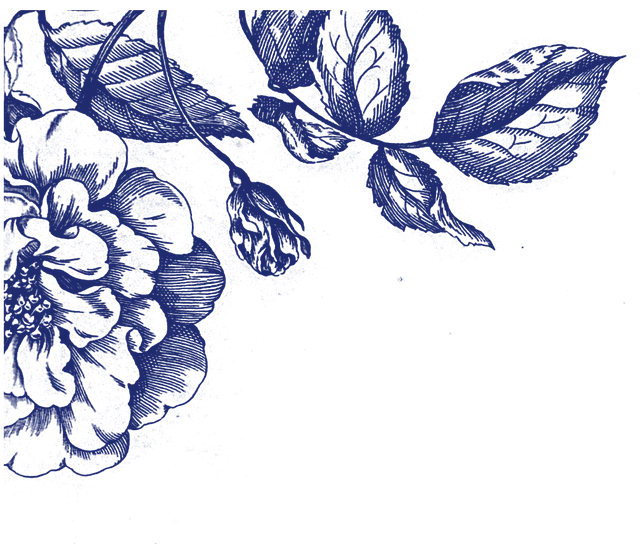
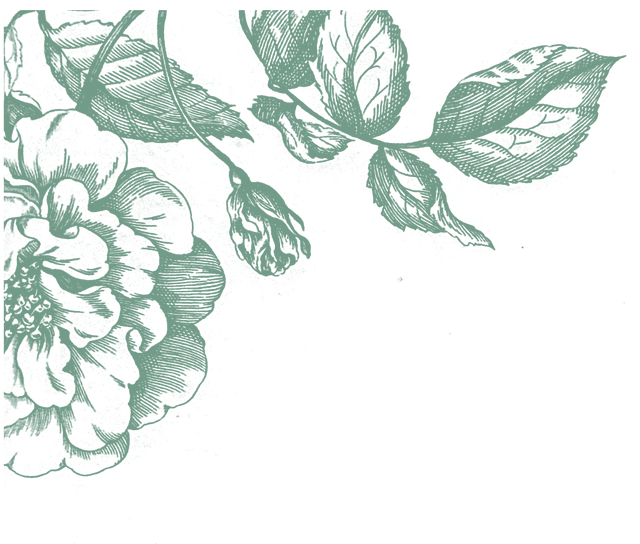
Anaïs : identité officielle (vert sauge, Belleza + DM Sans, fleurs sauge, coordonnées)
Claude-Session: https://claude.ai/code/session_016qL2Juu7hE1zMxMd2EMm6M

Changed region(s): [[0.0, 0.0, 0.9688, 0.875], [0.0, 0.8438, 0.0312, 0.875]]

diff --git a/anais/index.html b/anais/index.html
@@ -7,20 +7,20 @@
 <meta name="description" content="Anaïs Beauty Clinic : programme Maigrir en santé (bilan InBody, nutrition, coaching privé, technologies d'amincissement) et soins médico-esthétiques avec le médecin.">
 <link rel="preconnect" href="https://fonts.googleapis.com">
 <link rel="preconnect" href="https://fonts.gstatic.com" crossorigin>
-<link href="https://fonts.googleapis.com/css2?family=Poppins:ital,wght@0,300;0,400;0,500;0,600;0,700;1,300;1,400&display=swap" rel="stylesheet">
+<link href="https://fonts.googleapis.com/css2?family=Belleza&family=DM+Sans:ital,opsz,wght@0,9..40,300;0,9..40,400;0,9..40,500;0,9..40,600;0,9..40,700;1,9..40,300;1,9..40,400&display=swap" rel="stylesheet">
 <style>
   :root{
-    --bg:#F7F5F0;
+    --bg:#F0EDE7;
     --white:#FFFFFF;
     --ink:#1B1D21;
     --muted:#6E737D;
     --line:rgba(27,29,33,.1);
     --tile:#ECE9E2;
-    --sage:#3B4FA0;
-    --sage-deep:#1F2B6E;
-    --sage-mist:#E4E8F5;
-    --serif:'Poppins', system-ui, sans-serif;
-    --sans:'Poppins', system-ui, sans-serif;
+    --sage:#729B89;
+    --sage-deep:#4F7565;
+    --sage-mist:#E3ECE7;
+    --serif:'Belleza', 'DM Sans', sans-serif;
+    --sans:'DM Sans', system-ui, sans-serif;
   }
   *{box-sizing:border-box;margin:0;padding:0}
   html{scroll-behavior:smooth;overflow-x:clip}
@@ -72,7 +72,7 @@
   .hacts,.hacts2{display:flex;gap:10px;align-items:center;flex-shrink:0}
   .hb{display:inline-flex;align-items:center;gap:10px;border-radius:999px;padding:0 24px;height:50px;font-size:14.5px;font-weight:500;cursor:pointer;border:1px solid transparent;font-family:var(--sans);transition:filter .3s, background .3s;white-space:nowrap;background:none;color:var(--ink)}
   .hb svg{width:20px;height:20px;fill:none;stroke:currentColor;stroke-width:1.6}
-  .hb-dark{background:linear-gradient(90deg,#141C4E,var(--sage-deep));color:#fff}
+  .hb-dark{background:linear-gradient(90deg,#3A5A4C,var(--sage-deep));color:#fff}
   .hb-light{background:var(--sage);color:#fff}
   .hb-out{border-color:#dcdde0;color:var(--ink)}
   .hb:hover{filter:brightness(1.08)}
@@ -116,7 +116,7 @@
   }
 
   /* menu overlay */
-  .menu{position:fixed;inset:0;z-index:70;background:rgba(247,245,240,.98);backdrop-filter:blur(10px);display:none;flex-direction:column;justify-content:center;align-items:center;gap:6px}
+  .menu{position:fixed;inset:0;z-index:70;background:rgba(240,237,231,.98);backdrop-filter:blur(10px);display:none;flex-direction:column;justify-content:center;align-items:center;gap:6px}
   .menu.open{display:flex;animation:fade .35s}
   .menu a{font-size:clamp(28px,4vw,46px);text-transform:uppercase;letter-spacing:.05em;font-weight:300;transition:color .3s}
   .menu a:hover{color:var(--sage-deep)}
@@ -262,7 +262,7 @@
   @media (max-width:960px){ .xs h2 .typed{text-align:center} .xstage{height:auto;padding:10px 0} .chart .top{flex-direction:column;gap:6px} }
 
   /* étape 02 — assiette */
-  .x2{--xbg:#F3EFE7;--xink:#1B1D21;--xacc:#1F2B6E;--xmut:#5d6168;--xline:rgba(27,29,33,.1);--xcard:#fff}
+  .x2{--xbg:#F3EFE7;--xink:#1B1D21;--xacc:#4F7565;--xmut:#5d6168;--xline:rgba(27,29,33,.1);--xcard:#fff}
   .plate{position:relative;width:min(400px,86%);aspect-ratio:1}
   .plate svg{width:100%;height:100%;overflow:visible}
   .plate .seg{fill:none;stroke-width:92;transition:stroke-dasharray 1.1s cubic-bezier(.6,.1,.2,1)}
@@ -280,15 +280,15 @@
   .week span.on b{color:#fff}
 
   /* étape 03 — coaching */
-  .x3{--xbg:#121733;--xink:#fff;--xacc:#E8836B;--xmut:rgba(255,255,255,.7);--xline:rgba(232,131,107,.25);--xcard:rgba(255,255,255,.04);--xbtnink:#121733}
+  .x3{--xbg:#26302C;--xink:#fff;--xacc:#E8836B;--xmut:rgba(255,255,255,.7);--xline:rgba(232,131,107,.25);--xcard:rgba(255,255,255,.04);--xbtnink:#26302C}
   .x3::before{content:"";position:absolute;inset:0;background:radial-gradient(50% 60% at 50% 50%,rgba(232,131,107,.14),transparent 70%)}
   .cframe{position:relative;width:100%;aspect-ratio:3/2;border-radius:24px;overflow:hidden;box-shadow:0 30px 60px -30px rgba(0,0,0,.6)}
   .cframe img{width:100%;height:100%;object-fit:cover}
-  .cframe::after{content:"";position:absolute;inset:0;background:linear-gradient(180deg,rgba(18,23,51,.1) 40%,rgba(18,23,51,.85) 100%)}
+  .cframe::after{content:"";position:absolute;inset:0;background:linear-gradient(180deg,rgba(38,48,44,.1) 40%,rgba(38,48,44,.85) 100%)}
   .ecg{position:absolute;left:0;right:0;bottom:14px;height:70px;z-index:2}
   .ecg path{fill:none;stroke:var(--xacc);stroke-width:2.5;stroke-linejoin:round;filter:drop-shadow(0 0 6px rgba(232,131,107,.8));stroke-dasharray:1400;stroke-dashoffset:1400;animation:ecg 2.8s linear infinite}
   @keyframes ecg{to{stroke-dashoffset:0}}
-  .chipd{position:absolute;z-index:3;display:flex;align-items:center;gap:8px;background:rgba(18,23,51,.65);backdrop-filter:blur(8px);border:1px solid var(--xline);border-radius:999px;padding:7px 14px;font-size:12.5px;color:#fff}
+  .chipd{position:absolute;z-index:3;display:flex;align-items:center;gap:8px;background:rgba(38,48,44,.65);backdrop-filter:blur(8px);border:1px solid var(--xline);border-radius:999px;padding:7px 14px;font-size:12.5px;color:#fff}
   .heart{color:var(--xacc);display:inline-block;animation:beat 1s ease-in-out infinite}
   @keyframes beat{0%,100%{transform:scale(1)}15%{transform:scale(1.35)}30%{transform:scale(1)}45%{transform:scale(1.2)}}
   .bars{width:100%;display:grid;grid-template-columns:repeat(4,1fr);gap:12px}
@@ -297,16 +297,16 @@
   .bars .t i{display:block;height:100%;width:8%;background:linear-gradient(90deg,#C9614A,var(--xacc));border-radius:6px;transition:width 1.4s cubic-bezier(.6,.1,.2,1)}
 
   /* étape 04 — technologies */
-  .x4{--xbg:#EEF1FA;--xink:#1B1D21;--xacc:#2E3F8A;--xmut:#5d6168;--xline:rgba(46,63,138,.18);--xcard:#fff}
-  .tframe{position:relative;width:100%;aspect-ratio:16/9;border-radius:24px;overflow:hidden;box-shadow:0 30px 60px -30px rgba(30,42,110,.45)}
+  .x4{--xbg:#E9EFEB;--xink:#1B1D21;--xacc:#5E8574;--xmut:#5d6168;--xline:rgba(94,133,116,.2);--xcard:#fff}
+  .tframe{position:relative;width:100%;aspect-ratio:16/9;border-radius:24px;overflow:hidden;box-shadow:0 30px 60px -30px rgba(40,70,58,.45)}
   .tframe img{width:100%;height:100%;object-fit:cover}
-  .tframe::after{content:"";position:absolute;inset:0;background:rgba(20,30,90,.1)}
-  .ring{position:absolute;z-index:2;width:16px;height:16px;margin:-8px 0 0 -8px;border-radius:50%;background:#fff;box-shadow:0 0 0 4px rgba(46,63,138,.9)}
-  .ring::before,.ring::after{content:"";position:absolute;inset:-4px;border-radius:50%;border:2px solid rgba(110,135,230,.9);animation:ping 2.2s ease-out infinite}
+  .tframe::after{content:"";position:absolute;inset:0;background:rgba(30,60,45,.08)}
+  .ring{position:absolute;z-index:2;width:16px;height:16px;margin:-8px 0 0 -8px;border-radius:50%;background:#fff;box-shadow:0 0 0 4px rgba(94,133,116,.9)}
+  .ring::before,.ring::after{content:"";position:absolute;inset:-4px;border-radius:50%;border:2px solid rgba(160,200,180,.9);animation:ping 2.2s ease-out infinite}
   .ring::after{animation-delay:1.1s}
   @keyframes ping{from{transform:scale(1);opacity:1}to{transform:scale(4.2);opacity:0}}
   .ring b{position:absolute;left:24px;top:50%;transform:translateY(-50%);white-space:nowrap;background:rgba(255,255,255,.92);color:var(--xink);font-size:12px;font-weight:500;padding:5px 11px;border-radius:999px;box-shadow:0 8px 18px -10px rgba(0,0,0,.4)}
-  .panel4{display:flex;gap:18px;align-items:center;background:#fff;border:1px solid var(--xline);border-radius:20px;padding:14px 20px;box-shadow:0 16px 36px -24px rgba(30,42,110,.4);width:100%}
+  .panel4{display:flex;gap:18px;align-items:center;background:#fff;border:1px solid var(--xline);border-radius:20px;padding:14px 20px;box-shadow:0 16px 36px -24px rgba(40,70,58,.4);width:100%}
   .pring{width:64px;height:64px;flex-shrink:0;position:relative}
   .pring svg{width:100%;height:100%;transform:rotate(-90deg)}
   .pring circle{fill:none;stroke-width:6}
@@ -318,8 +318,8 @@
   .zchips em.on{background:var(--xacc);border-color:var(--xacc);color:#fff}
 
   /* étape 05 — suivi */
-  .x5{--xbg:#0D1230;--xink:#fff;--xacc:#9DB4F2;--xmut:rgba(255,255,255,.7);--xline:rgba(157,180,242,.22);--xcard:rgba(255,255,255,.04);--xbtnink:#0D1230}
-  .x5::before{content:"";position:absolute;inset:0;background:radial-gradient(50% 60% at 50% 50%,rgba(157,180,242,.12),transparent 70%)}
+  .x5{--xbg:#1E2B26;--xink:#fff;--xacc:#A9CDBB;--xmut:rgba(255,255,255,.7);--xline:rgba(169,205,187,.22);--xcard:rgba(255,255,255,.04);--xbtnink:#1E2B26}
+  .x5::before{content:"";position:absolute;inset:0;background:radial-gradient(50% 60% at 50% 50%,rgba(169,205,187,.12),transparent 70%)}
   .chart{position:relative;width:100%;background:rgba(255,255,255,.03);border:1px solid var(--xline);border-radius:24px;padding:22px 22px 14px}
   .chart .top{display:flex;justify-content:space-between;align-items:center;font-size:12.5px;color:var(--xmut);margin-bottom:10px}
   .chart .lg{display:flex;gap:14px}
@@ -327,11 +327,22 @@
   .chart svg{width:100%;height:auto;overflow:visible}
   .chart .ln{fill:none;stroke-width:3;stroke-linecap:round;stroke-linejoin:round}
   .chart .pt{transition:r .4s, opacity .4s}
-  .chart .xl{font-size:11px;fill:rgba(255,255,255,.55);font-family:Poppins}
-  .final{display:flex;align-items:center;gap:10px;background:var(--xacc);color:#0D1230;font-weight:500;font-size:13.5px;border-radius:999px;padding:9px 18px;opacity:0;transform:translateY(10px);transition:.6s}
+  .chart .xl{font-size:11px;fill:rgba(255,255,255,.55);font-family:DM Sans}
+  .final{display:flex;align-items:center;gap:10px;background:var(--xacc);color:#1E2B26;font-weight:500;font-size:13.5px;border-radius:999px;padding:9px 18px;opacity:0;transform:translateY(10px);transition:.6s}
   .final.on{opacity:1;transform:none}
   .note5{font-size:11px;color:var(--xmut);opacity:.7}
 
+
+
+  /* ---------- IDENTITÉ OFFICIELLE (anaisbeautyclinic.com) ---------- */
+  h1,h2,h3,.tt i,.tt b,.cf-info h3,.card-b h3,.min h3,.menu a,.xs h2 b,.xs h2 i,.scan h2 b,.scan h2 i{font-family:'Belleza','DM Sans',sans-serif}
+  .tt i,.xs h2 i,.scan h2 i{font-style:normal;color:var(--sage)}
+  .tt b{font-weight:400;letter-spacing:.02em}
+  .xs h2 b,.scan h2 b{font-weight:400}
+  .hero .tt i{color:#fff}
+  .xs.x3 h2 i,.xs.x5 h2 i{color:var(--xacc)}
+  .scan h2 i{color:#BFD6FF}
+  .cf-info .cf-n,.card-b .n,.min .n{font-family:'Belleza',sans-serif;font-style:normal}
 
   /* ---------- IDENTITÉ ANAÏS (brochure) ---------- */
   .deco{position:relative;overflow:hidden}
@@ -345,7 +356,7 @@
   .contact .flr{opacity:.5}
   .menu .flr{opacity:.6}
   .menu-logo{height:70px;margin-bottom:26px}
-  .portrait.cover{aspect-ratio:1;position:relative;background:#FAF8F3;overflow:hidden;box-shadow:0 30px 60px -36px rgba(20,30,90,.35);gap:0}
+  .portrait.cover{aspect-ratio:1;position:relative;background:#FAF8F3;overflow:hidden;box-shadow:0 30px 60px -36px rgba(40,70,58,.3);gap:0}
   .cover .fl{position:absolute;pointer-events:none}
   .cover .fl.tl{top:0;left:0;width:62%}
   .cover .fl.tr{top:0;right:0;width:40%}
@@ -367,7 +378,7 @@
   @keyframes svIn{from{opacity:0;transform:translateY(16px)}}
   .stepview > section{display:none}
   .stepview > section.cur{display:block}
-  .sv-bar{position:sticky;top:0;z-index:5;height:58px;display:flex;align-items:center;justify-content:space-between;gap:14px;padding:0 24px;background:rgba(247,245,240,.96);backdrop-filter:blur(10px);border-bottom:1px solid var(--line)}
+  .sv-bar{position:sticky;top:0;z-index:5;height:58px;display:flex;align-items:center;justify-content:space-between;gap:14px;padding:0 24px;background:rgba(240,237,231,.96);backdrop-filter:blur(10px);border-bottom:1px solid var(--line)}
   .sv-back{border:0;background:none;font-family:var(--sans);font-size:14px;font-weight:500;color:var(--sage-deep);cursor:pointer;padding:8px 0}
   .sv-dots{display:flex;gap:6px}
   .sv-dots button{border:1px solid var(--line);background:#fff;border-radius:999px;padding:7px 14px;font-family:var(--sans);font-size:13px;cursor:pointer;color:var(--ink);transition:.3s}
@@ -629,7 +640,7 @@
   .sgrid{display:grid;grid-template-columns:repeat(3,1fr);gap:28px 20px;margin-top:60px}
   .soin{cursor:pointer;text-align:left;background:none;border:0;color:var(--ink)}
   .soin .tile{aspect-ratio:4/4.4;background:var(--tile);display:grid;place-items:center;overflow:hidden;position:relative;transition:background .5s}
-  .soin .disc{width:46%;aspect-ratio:1;border-radius:50%;background:var(--sage);display:flex;flex-direction:column;align-items:center;justify-content:center;color:#fff;line-height:1;outline:6px solid rgba(59,79,160,.25);outline-offset:6px;transition:transform .6s}
+  .soin .disc{width:46%;aspect-ratio:1;border-radius:50%;background:var(--sage);display:flex;flex-direction:column;align-items:center;justify-content:center;color:#fff;line-height:1;outline:6px solid rgba(114,155,137,.25);outline-offset:6px;transition:transform .6s}
   .soin .disc b{font-family:var(--serif);font-weight:400;font-size:clamp(26px,2.6vw,40px)}
   .soin .disc small{font-family:var(--serif);font-size:12px;margin-top:4px;opacity:.9}
   .soin .hov{position:absolute;inset:auto 0 0 0;padding:22px 24px;background:linear-gradient(0deg,rgba(27,29,33,.78),rgba(27,29,33,0));color:#fff;font-size:14px;transform:translateY(100%);transition:transform .5s}
@@ -659,7 +670,7 @@
 
   /* ---------- FOOTER ---------- */
   footer{padding:60px 0 40px}
-  .fbox{max-width:760px;margin:0 auto;background:var(--white);padding:50px 56px;display:grid;grid-template-columns:repeat(3,1fr);gap:30px}
+  .fbox{max-width:980px;margin:0 auto;background:var(--white);padding:50px 56px;display:grid;grid-template-columns:repeat(4,1fr);gap:30px}
   .fbox h4{font-size:11px;letter-spacing:.2em;text-transform:uppercase;color:var(--muted);font-weight:500;margin-bottom:16px}
   .fbox ul{list-style:none;display:grid;gap:6px;font-size:15px;font-weight:400}
   .fbox a:hover{color:var(--sage-deep)}
@@ -719,10 +730,10 @@
     </a>
     <div class="hbadge" aria-hidden="true">
       <svg viewBox="0 0 100 100"><defs><path id="bc" d="M50,50 m-38,0 a38,38 0 1,1 76,0 a38,38 0 1,1 -76,0"/></defs>
-        <text font-family="Poppins" font-size="9.5" font-weight="600" letter-spacing="2.4" fill="#1F2B6E"><textPath href="#bc" startOffset="2%">MAIGRIR EN SANTÉ ·</textPath></text>
-        <circle cx="50" cy="50" r="27" fill="#3B4FA0"/>
-        <text x="50" y="49" text-anchor="middle" font-family="Poppins" font-weight="600" font-size="15" fill="#fff">5</text>
-        <text x="50" y="62" text-anchor="middle" font-family="Poppins" font-weight="500" font-size="8.5" fill="#fff">étapes</text>
+        <text font-family="DM Sans" font-size="9.5" font-weight="600" letter-spacing="2.4" fill="#4F7565"><textPath href="#bc" startOffset="2%">MAIGRIR EN SANTÉ ·</textPath></text>
+        <circle cx="50" cy="50" r="27" fill="#729B89"/>
+        <text x="50" y="49" text-anchor="middle" font-family="DM Sans" font-weight="600" font-size="15" fill="#fff">5</text>
+        <text x="50" y="62" text-anchor="middle" font-family="DM Sans" font-weight="500" font-size="8.5" fill="#fff">étapes</text>
       </svg>
     </div>
     <div class="hsearch">
@@ -753,7 +764,7 @@
     </nav>
     <div class="hacts2">
       <a href="#contact" class="hb hb-out hcall"><svg viewBox="0 0 24 24"><path d="M5 4h4l2 5-2.5 1.5a11 11 0 0 0 5 5L15 13l5 2v4a2 2 0 0 1-2 2A16 16 0 0 1 3 6a2 2 0 0 1 2-2"/></svg><span><b>Rendez-vous</b><small>par WhatsApp</small></span></a>
-      <a href="https://www.instagram.com/anaisclinic/" target="_blank" rel="noopener" class="hb hb-dark">@anaisclinic</a>
+      <a href="https://www.instagram.com/anaisbeautyclinic/" target="_blank" rel="noopener" class="hb hb-dark">@anaisclinic</a>
       <span class="hb hb-out hlang">🇫🇷 FR</span>
     </div>
   </div>
@@ -763,7 +774,7 @@
 
 <div class="sidebtns" id="sidebtns">
   <a href="#contact"><svg viewBox="0 0 24 24"><rect x="4" y="5" width="16" height="15" rx="2"/><path d="M8 3v4M16 3v4M4 10h16M12 13v4M10 15h4"/></svg>Rendez-vous rapide</a>
-  <a href="https://www.instagram.com/anaisclinic/" target="_blank" rel="noopener"><svg viewBox="0 0 24 24"><circle cx="12" cy="12" r="8"/><path d="M12 8v4l3 2"/></svg>Nous écrire</a>
+  <a href="https://www.instagram.com/anaisbeautyclinic/" target="_blank" rel="noopener"><svg viewBox="0 0 24 24"><circle cx="12" cy="12" r="8"/><path d="M12 8v4l3 2"/></svg>Nous écrire</a>
 </div>
 
 <nav class="menu" id="menu" aria-label="Menu principal">
@@ -882,8 +893,8 @@
             <circle class="seg" data-f=".25" data-o=".75" cx="250" cy="250" r="120" stroke="#E3C98F" stroke-dasharray="0 754"/>
           </g>
           <circle cx="250" cy="250" r="72" fill="#fff"/>
-          <text x="250" y="245" text-anchor="middle" font-family="Poppins" font-size="17" font-weight="600" fill="#1B1D21">Votre assiette</text>
-          <text x="250" y="270" text-anchor="middle" font-family="Poppins" font-size="14" font-style="italic" fill="#1F2B6E">sur mesure</text>
+          <text x="250" y="245" text-anchor="middle" font-family="DM Sans" font-size="17" font-weight="600" fill="#1B1D21">Votre assiette</text>
+          <text x="250" y="270" text-anchor="middle" font-family="DM Sans" font-size="14" font-style="italic" fill="#4F7565">sur mesure</text>
         </svg>
         <div class="chip" style="left:-4%;top:58%"><i style="background:#8FAF8A"></i>Légumes</div>
         <div class="chip" style="right:-2%;top:70%"><i style="background:#D98E73"></i>Protéines</div>
@@ -957,7 +968,7 @@
         <div class="ring" style="left:28%;top:27%"><b>Protocole</b></div>
       </div>
       <div class="panel4" id="panel4">
-        <div class="pring"><svg viewBox="0 0 64 64"><circle cx="32" cy="32" r="27" stroke="#E2E7F5"/><circle id="pr" cx="32" cy="32" r="27" stroke="#2E3F8A" stroke-linecap="round" stroke-dasharray="0 170"/></svg><span id="prt">0%</span></div>
+        <div class="pring"><svg viewBox="0 0 64 64"><circle cx="32" cy="32" r="27" stroke="#E3ECE7"/><circle id="pr" cx="32" cy="32" r="27" stroke="#5E8574" stroke-linecap="round" stroke-dasharray="0 170"/></svg><span id="prt">0%</span></div>
         <div class="info"><b id="p4t">Séance en cours</b>Protocole adapté à vos besoins
           <div class="zchips"><em>Ventre</em><em>Cuisses</em><em>Bras</em><em>Fessiers</em></div>
         </div>
@@ -986,10 +997,10 @@
     </div>
     <div class="xstage">
       <div class="chart" id="chart">
-        <div class="top"><span>Vos contrôles InBody</span><span class="lg"><span><i style="background:#9DB4F2"></i>Masse musculaire</span><span><i style="background:#E8836B"></i>Masse grasse</span></span></div>
+        <div class="top"><span>Vos contrôles InBody</span><span class="lg"><span><i style="background:#A9CDBB"></i>Masse musculaire</span><span><i style="background:#E8836B"></i>Masse grasse</span></span></div>
         <svg viewBox="0 0 560 230">
           <g stroke="rgba(255,255,255,.07)"><line x1="20" y1="30" x2="540" y2="30"/><line x1="20" y1="90" x2="540" y2="90"/><line x1="20" y1="150" x2="540" y2="150"/><line x1="20" y1="200" x2="540" y2="200"/></g>
-          <path id="lUp" class="ln" stroke="#9DB4F2" d="M40 150 C 120 145, 160 128, 165 125 S 260 100, 290 98 S 390 70, 415 68 S 500 52, 520 48"/>
+          <path id="lUp" class="ln" stroke="#A9CDBB" d="M40 150 C 120 145, 160 128, 165 125 S 260 100, 290 98 S 390 70, 415 68 S 500 52, 520 48"/>
           <path id="lDn" class="ln" stroke="#E8836B" d="M40 60 C 120 66, 160 82, 165 85 S 260 110, 290 112 S 390 136, 415 138 S 500 150, 520 154"/>
           <g id="pts"></g>
           <text class="xl" x="40" y="225" text-anchor="middle">Bilan</text>
@@ -1066,20 +1077,20 @@
         <svg viewBox="0 0 1000 620" preserveAspectRatio="xMidYMid meet" aria-label="Route du parcours Anaïs">
           <defs>
             <filter id="sh" x="-20%" y="-20%" width="140%" height="160%"><feDropShadow dx="0" dy="10" stdDeviation="9" flood-color="#000" flood-opacity=".18"/></filter>
-            <radialGradient id="glow"><stop offset="0" stop-color="#3B4FA0" stop-opacity=".55"/><stop offset="1" stop-color="#3B4FA0" stop-opacity="0"/></radialGradient>
+            <radialGradient id="glow"><stop offset="0" stop-color="#729B89" stop-opacity=".55"/><stop offset="1" stop-color="#729B89" stop-opacity="0"/></radialGradient>
           </defs>
           <!-- nuages -->
           <g class="cloud" opacity=".7"><ellipse cx="60" cy="90" rx="46" ry="15" fill="#fff"/><ellipse cx="90" cy="80" rx="30" ry="14" fill="#fff"/></g>
           <g class="cloud" style="animation-duration:38s;animation-delay:-14s" opacity=".55"><ellipse cx="40" cy="150" rx="36" ry="11" fill="#fff"/></g>
           <!-- collines -->
-          <path d="M0 470 C 180 400, 320 440, 470 410 S 780 360, 1000 400 L1000 620 L0 620Z" fill="#E2E7F5" opacity=".55"/>
+          <path d="M0 470 C 180 400, 320 440, 470 410 S 780 360, 1000 400 L1000 620 L0 620Z" fill="#E3ECE7" opacity=".55"/>
           <!-- arbres -->
           <g id="trees"></g>
           <!-- route -->
           <path id="roadShadow" d="" fill="none" stroke="#000" stroke-opacity=".12" stroke-width="70" stroke-linecap="round" transform="translate(0,10)"/>
           <path id="roadEdge" d="" fill="none" stroke="#fff" stroke-width="66" stroke-linecap="round"/>
           <path id="road" d="" fill="none" stroke="#2B2E33" stroke-width="56" stroke-linecap="round"/>
-          <path id="roadProg" d="" fill="none" stroke="#3B4FA0" stroke-width="56" stroke-linecap="round" opacity=".35"/>
+          <path id="roadProg" d="" fill="none" stroke="#729B89" stroke-width="56" stroke-linecap="round" opacity=".35"/>
           <path id="roadLine" d="" fill="none" stroke="#fff" stroke-width="3.5" stroke-dasharray="18 16" stroke-linecap="round"/>
           <!-- arrivée -->
           <g id="finish"></g>
@@ -1089,8 +1100,8 @@
           <g id="traveler" filter="url(#sh)">
             <circle r="34" fill="url(#glow)"/>
             <circle r="17" fill="#fff"/>
-            <circle r="12" fill="#1F2B6E"/>
-            <text y="4.5" text-anchor="middle" font-family="Poppins, sans-serif" font-style="italic" font-size="13" fill="#fff">A</text>
+            <circle r="12" fill="#4F7565"/>
+            <text y="4.5" text-anchor="middle" font-family="Belleza, sans-serif" font-style="italic" font-size="13" fill="#fff">A</text>
           </g>
         </svg>
         <div class="hud">
@@ -1178,8 +1189,13 @@
         <li><a href="#soins">Laser</a></li><li><a href="#soins">Filler</a></li><li><a href="#soins">Skin booster</a></li>
         <li><a href="#soins">PRP cheveux</a></li><li><a href="#soins">Hydrafacial</a></li><li><a href="#soins">Microneedling</a></li>
       </ul></div>
+      <div><h4>Nous trouver</h4><ul>
+        <li>RP N°40 Hay El Mohammadi, Agadir</li>
+        <li><a href="tel:+212525236754">+212 5 25 23 67 54</a></li>
+        <li>Lun – Dim · 10h – 21h</li>
+      </ul></div>
       <div><h4>Nous suivre</h4><ul>
-        <li><a href="https://www.instagram.com/anaisclinic/" target="_blank" rel="noopener">Instagram</a></li>
+        <li><a href="https://www.instagram.com/anaisbeautyclinic/" target="_blank" rel="noopener">Instagram</a></li>
         <li><a href="https://www.instagram.com/complexemoovup/" target="_blank" rel="noopener">Complexe Moov'Up</a></li>
         <li><a href="#contact">Contact</a></li>
       </ul></div>
@@ -1617,13 +1633,13 @@
     [[120,420,1],[430,500,.8],[520,230,.9],[900,330,1.1],[170,220,.7],[620,540,.9],[960,520,.8],[400,180,.6],[960,200,.7]].forEach(([x,y,k])=>{
       const g=document.createElementNS(NS,'g'); g.setAttribute('class','tree');
       g.style.animationDelay=(-x/90)+'s';
-      g.innerHTML=`<rect x="${x-2.5*k}" y="${y-6*k}" width="${5*k}" height="${16*k}" fill="#8b7d6b"/><circle cx="${x}" cy="${y-22*k}" r="${20*k}" fill="#3B4FA0"/><circle cx="${x-10*k}" cy="${y-14*k}" r="${13*k}" fill="#2E3F8A"/>`;
+      g.innerHTML=`<rect x="${x-2.5*k}" y="${y-6*k}" width="${5*k}" height="${16*k}" fill="#8b7d6b"/><circle cx="${x}" cy="${y-22*k}" r="${20*k}" fill="#729B89"/><circle cx="${x-10*k}" cy="${y-14*k}" r="${13*k}" fill="#5E8574"/>`;
       trees.appendChild(g);
     });
 
     // drapeau d'arrivée
     const e=pt(END);
-    document.getElementById('finish').innerHTML=`<g transform="translate(${e.x+6},${e.y-70})"><rect x="0" y="0" width="3" height="74" fill="#1B1D21"/><path d="M3 2 h62 l-12 14 l12 14 h-62z" fill="#1F2B6E"/><text x="31" y="21" text-anchor="middle" font-family="Poppins" font-size="11" font-weight="600" letter-spacing="1.5" fill="#fff">ANAÏS</text></g>`;
+    document.getElementById('finish').innerHTML=`<g transform="translate(${e.x+6},${e.y-70})"><rect x="0" y="0" width="3" height="74" fill="#1B1D21"/><path d="M3 2 h62 l-12 14 l12 14 h-62z" fill="#4F7565"/><text x="31" y="21" text-anchor="middle" font-family="DM Sans" font-size="11" font-weight="600" letter-spacing="1.5" fill="#fff">ANAÏS</text></g>`;
 
     // arrêts
     const pins=document.getElementById('pins');
@@ -1635,7 +1651,7 @@
       g.innerHTML=`<g transform="translate(${p.x},${p.y-30})">
         <path class="drop" d="M0 18 C -16 0,-22 -8,-22 -22 a22 22 0 1 1 44 0 C 22 -8,16 0,0 18z" fill="#2B2E33" filter="url(#sh)"/>
         <circle cy="-22" r="12" fill="#fff"/>
-        <text y="-17.5" text-anchor="middle" font-family="Poppins, sans-serif" font-style="italic" font-size="14" fill="#1B1D21">${i+1}</text>
+        <text y="-17.5" text-anchor="middle" font-family="Belleza, sans-serif" font-style="italic" font-size="14" fill="#1B1D21">${i+1}</text>
         <text class="lbl-pin" y="${up?-56:44}" text-anchor="middle">${NAMES[i]}</text></g>`;
       pins.appendChild(g);
     });
@@ -1715,7 +1731,7 @@
       const p=pt(i<0?END:STOPS[i]); const r=svg.getBoundingClientRect(), br=board.getBoundingClientRect();
       const sc=r.width/1000, ox=r.left-br.left+(r.width-1000*Math.min(sc,r.height/620))/2;
       const s2=Math.min(sc,r.height/620), oy=r.top-br.top+(r.height-620*s2)/2;
-      const cols=['#3B4FA0','#1F2B6E','#E2E7F5','#C8553D','#1B1D21'];
+      const cols=['#729B89','#4F7565','#E3ECE7','#C8553D','#1B1D21'];
       for(let k=0;k<n;k++){
         const d=document.createElement('i'); d.className='spark';
         d.style.left=(ox+p.x*s2)+'px'; d.style.top=(oy+(p.y-40)*s2)+'px';
